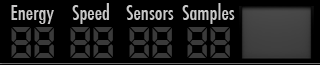
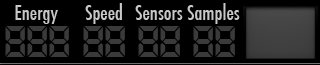
added third digit to energy

diff --git a/Classes/Views/StatusDisplay.m b/Classes/Views/StatusDisplay.m
@@ -10,12 +10,15 @@
 #import "StatusDisplay.h"
 
 //-----------------------------------------------------------------------------------------------------------------------------------
-#define kDISPLAY_SECOND_DIGIT   23.0f
-#define kENERGY_XPOS            10.0f
-#define kSPEED_XPOS             68.0f
-#define kSENSOR_XPOS            127.0f
-#define kSAMPLE_XPOS            185.0f
-#define kDIGIT_YPOS             5.0f
+#define kDISPLAY_DIGIT_DELTA    22.0f
+#define kENERGY_XPOS            3.0f
+#define kSPEED_XPOS             81.0f
+#define kSENSOR_XPOS            136.0f
+#define kSAMPLE_XPOS            191.0f
+#define kDIGIT_YPOS             6.0f
+#define kTERMINAL_XPOS          250.0f
+#define kTERMINAL_YPOS          37.0f
+#define kTERMINAL_YOFFSET       13.0f
 
 /////////////////////////////////////////////////////////////////////////////////////////////////////////////////////////////////////
 @interface StatusDisplay (PrivateAPI)
@@ -64,11 +67,10 @@
 
 //-----------------------------------------------------------------------------------------------------------------------------------
 - (void)writeDisplay {
-    CGPoint basePoint = CGPointMake(248.0f, 37.0f);
-    CGFloat yOffset = 13.0;
+    CGPoint basePoint = CGPointMake(kTERMINAL_XPOS, kTERMINAL_YPOS);
     for (int i = 0; i < [self.terminalText count]; i++) {
         CCLabel* _text = [self.terminalText objectAtIndex:i];
-        _text.position = CGPointMake(basePoint.x, basePoint.y-i*yOffset);
+        _text.position = CGPointMake(basePoint.x, basePoint.y-i*kTERMINAL_YOFFSET);
         [self addChild:_text];
     }
 }
@@ -136,19 +138,20 @@
     switch(_displayType) {
         case EnergyDisplayType:
             [self.energyDigits addObject:[self insertImage:self.testDigitImage atPostion:kENERGY_XPOS withKey:@"test"]];
-            [self.energyDigits addObject:[self insertImage:self.testDigitImage atPostion:(kENERGY_XPOS+kDISPLAY_SECOND_DIGIT) withKey:@"test"]];
+            [self.energyDigits addObject:[self insertImage:self.testDigitImage atPostion:(kENERGY_XPOS+kDISPLAY_DIGIT_DELTA) withKey:@"test"]];
+            [self.energyDigits addObject:[self insertImage:self.testDigitImage atPostion:(kENERGY_XPOS+2*kDISPLAY_DIGIT_DELTA) withKey:@"test"]];
             break;
         case SpeedDisplayType:
             [self.speedDigits addObject:[self insertImage:self.testDigitImage atPostion:kSPEED_XPOS withKey:@"test"]];
-            [self.speedDigits addObject:[self insertImage:self.testDigitImage atPostion:(kSPEED_XPOS+kDISPLAY_SECOND_DIGIT) withKey:@"test"]];
+            [self.speedDigits addObject:[self insertImage:self.testDigitImage atPostion:(kSPEED_XPOS+kDISPLAY_DIGIT_DELTA) withKey:@"test"]];
             break;
         case SensorDisplayType:
             [self.sensorDigits addObject:[self insertImage:self.testDigitImage atPostion:kSENSOR_XPOS withKey:@"test"]];
-            [self.sensorDigits addObject:[self insertImage:self.testDigitImage atPostion:(kSENSOR_XPOS+kDISPLAY_SECOND_DIGIT) withKey:@"test"]];
+            [self.sensorDigits addObject:[self insertImage:self.testDigitImage atPostion:(kSENSOR_XPOS+kDISPLAY_DIGIT_DELTA) withKey:@"test"]];
             break;
         case SampleDisplayType:
             [self.sampleDigits addObject:[self insertImage:self.testDigitImage atPostion:kSAMPLE_XPOS withKey:@"test"]];
-            [self.sampleDigits addObject:[self insertImage:self.testDigitImage atPostion:(kSAMPLE_XPOS+kDISPLAY_SECOND_DIGIT) withKey:@"test"]];
+            [self.sampleDigits addObject:[self insertImage:self.testDigitImage atPostion:(kSAMPLE_XPOS+kDISPLAY_DIGIT_DELTA) withKey:@"test"]];
             break;
     }
 }
@@ -156,26 +159,29 @@
 //-----------------------------------------------------------------------------------------------------------------------------------
 - (void)setDigits:(NSInteger)_digits forDisplay:(DisplayType)_displayType {
     [self clearDisplay:_displayType];
-    NSInteger tensDigit = floor((CGFloat)_digits/10.0f);
-    NSInteger onesDigit = _digits - 10*tensDigit;
+    NSInteger hunsDigit = floor((CGFloat)_digits/100.0f);
+    NSInteger tensDigit = floor((CGFloat)(_digits - 100*hunsDigit)/10.0f);
+    NSInteger onesDigit = _digits - 100*hunsDigit - 10*tensDigit;
+    NSString* hunsDigitKey = [NSString stringWithFormat:@"%d", hunsDigit];
     NSString* tensDigitKey = [NSString stringWithFormat:@"%d", tensDigit];
     NSString* onesDigitKey = [NSString stringWithFormat:@"%d", onesDigit];
     switch(_displayType) {
         case EnergyDisplayType:
-            [self.energyDigits addObject:[self insertImage:[self.digitImages objectAtIndex:tensDigit] atPostion:kENERGY_XPOS withKey:tensDigitKey]];
-            [self.energyDigits addObject:[self insertImage:[self.digitImages objectAtIndex:onesDigit] atPostion:(kENERGY_XPOS+kDISPLAY_SECOND_DIGIT) withKey:onesDigitKey]];
+            [self.energyDigits addObject:[self insertImage:[self.digitImages objectAtIndex:hunsDigit] atPostion:kENERGY_XPOS withKey:hunsDigitKey]];
+            [self.energyDigits addObject:[self insertImage:[self.digitImages objectAtIndex:tensDigit] atPostion:(kENERGY_XPOS+kDISPLAY_DIGIT_DELTA) withKey:tensDigitKey]];
+            [self.energyDigits addObject:[self insertImage:[self.digitImages objectAtIndex:onesDigit] atPostion:(kENERGY_XPOS+2*kDISPLAY_DIGIT_DELTA) withKey:onesDigitKey]];
             break;
         case SpeedDisplayType:
             [self.speedDigits addObject:[self insertImage:[self.digitImages objectAtIndex:tensDigit] atPostion:kSPEED_XPOS withKey:tensDigitKey]];
-            [self.speedDigits addObject:[self insertImage:[self.digitImages objectAtIndex:onesDigit] atPostion:(kSPEED_XPOS+kDISPLAY_SECOND_DIGIT) withKey:onesDigitKey]];
+            [self.speedDigits addObject:[self insertImage:[self.digitImages objectAtIndex:onesDigit] atPostion:(kSPEED_XPOS+kDISPLAY_DIGIT_DELTA) withKey:onesDigitKey]];
             break;
         case SensorDisplayType:
             [self.sensorDigits addObject:[self insertImage:[self.digitImages objectAtIndex:tensDigit] atPostion:kSENSOR_XPOS withKey:tensDigitKey]];
-            [self.sensorDigits addObject:[self insertImage:[self.digitImages objectAtIndex:onesDigit] atPostion:(kSENSOR_XPOS+kDISPLAY_SECOND_DIGIT) withKey:onesDigitKey]];
+            [self.sensorDigits addObject:[self insertImage:[self.digitImages objectAtIndex:onesDigit] atPostion:(kSENSOR_XPOS+kDISPLAY_DIGIT_DELTA) withKey:onesDigitKey]];
             break;
         case SampleDisplayType:
             [self.sampleDigits addObject:[self insertImage:[self.digitImages objectAtIndex:tensDigit] atPostion:kSAMPLE_XPOS withKey:tensDigitKey]];
-            [self.sampleDigits addObject:[self insertImage:[self.digitImages objectAtIndex:onesDigit] atPostion:(kSAMPLE_XPOS+kDISPLAY_SECOND_DIGIT) withKey:onesDigitKey]];
+            [self.sampleDigits addObject:[self insertImage:[self.digitImages objectAtIndex:onesDigit] atPostion:(kSAMPLE_XPOS+kDISPLAY_DIGIT_DELTA) withKey:onesDigitKey]];
             break;
     }
 }
